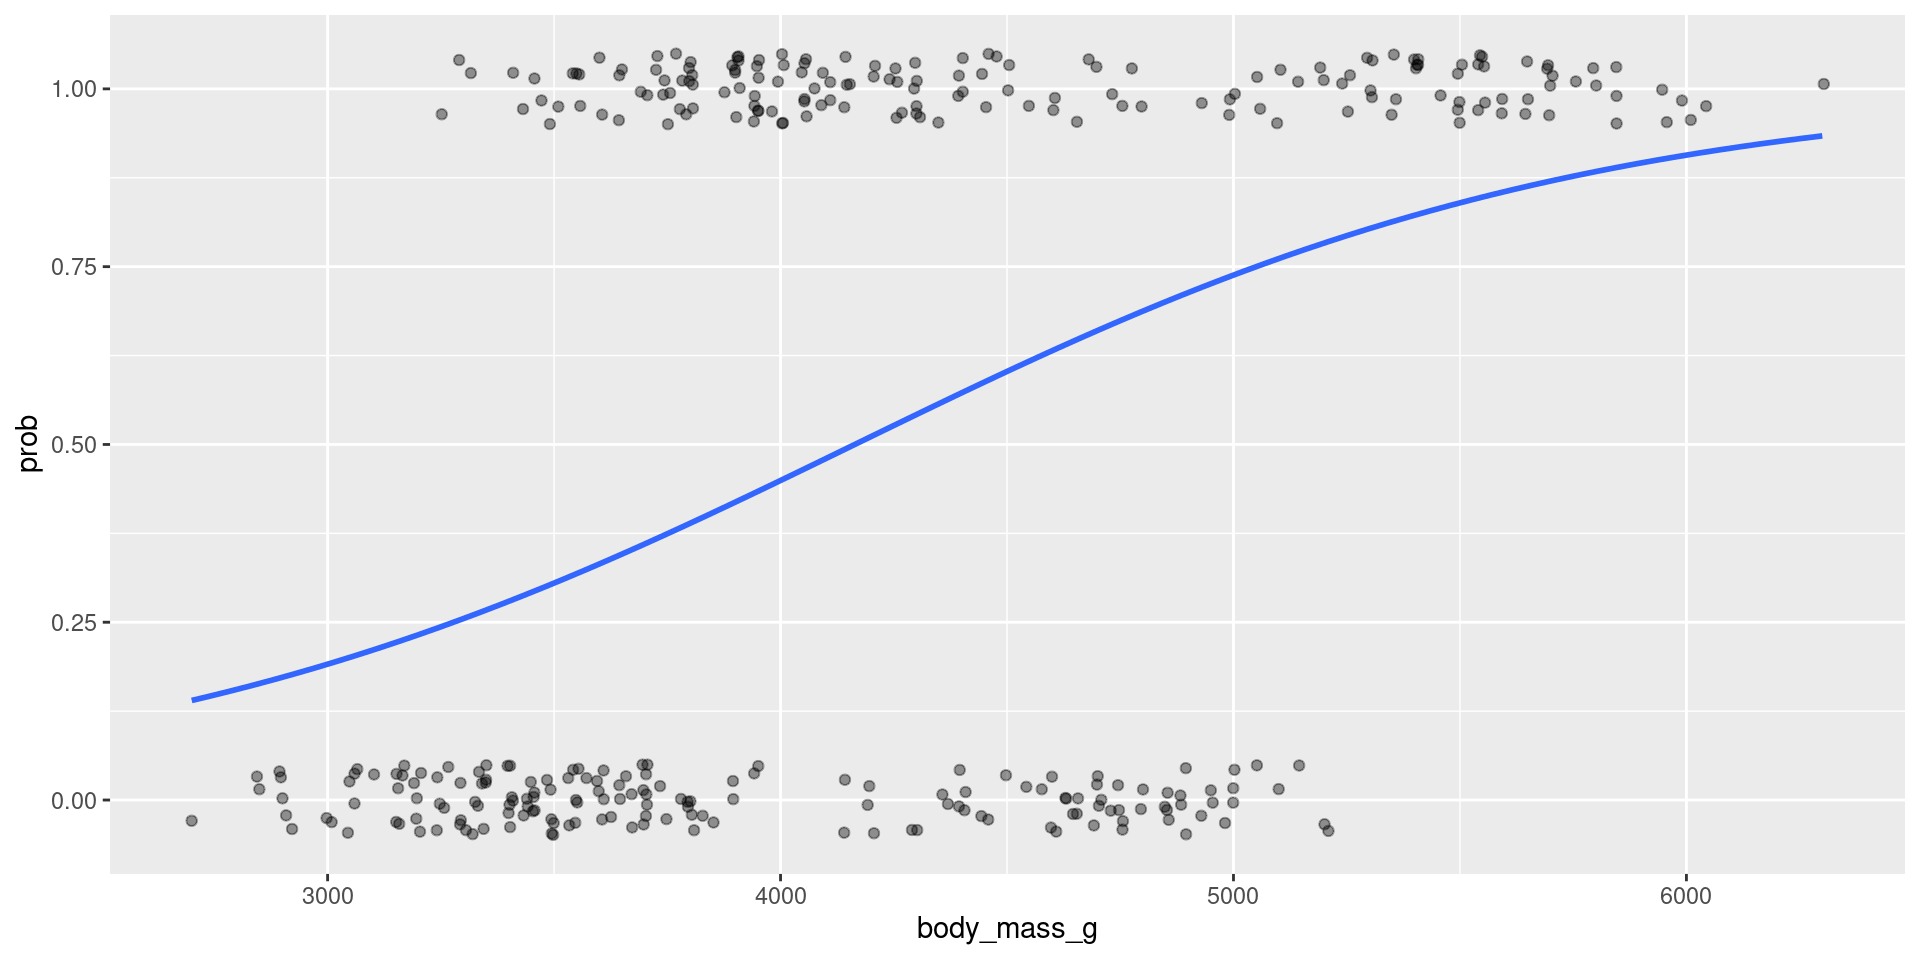
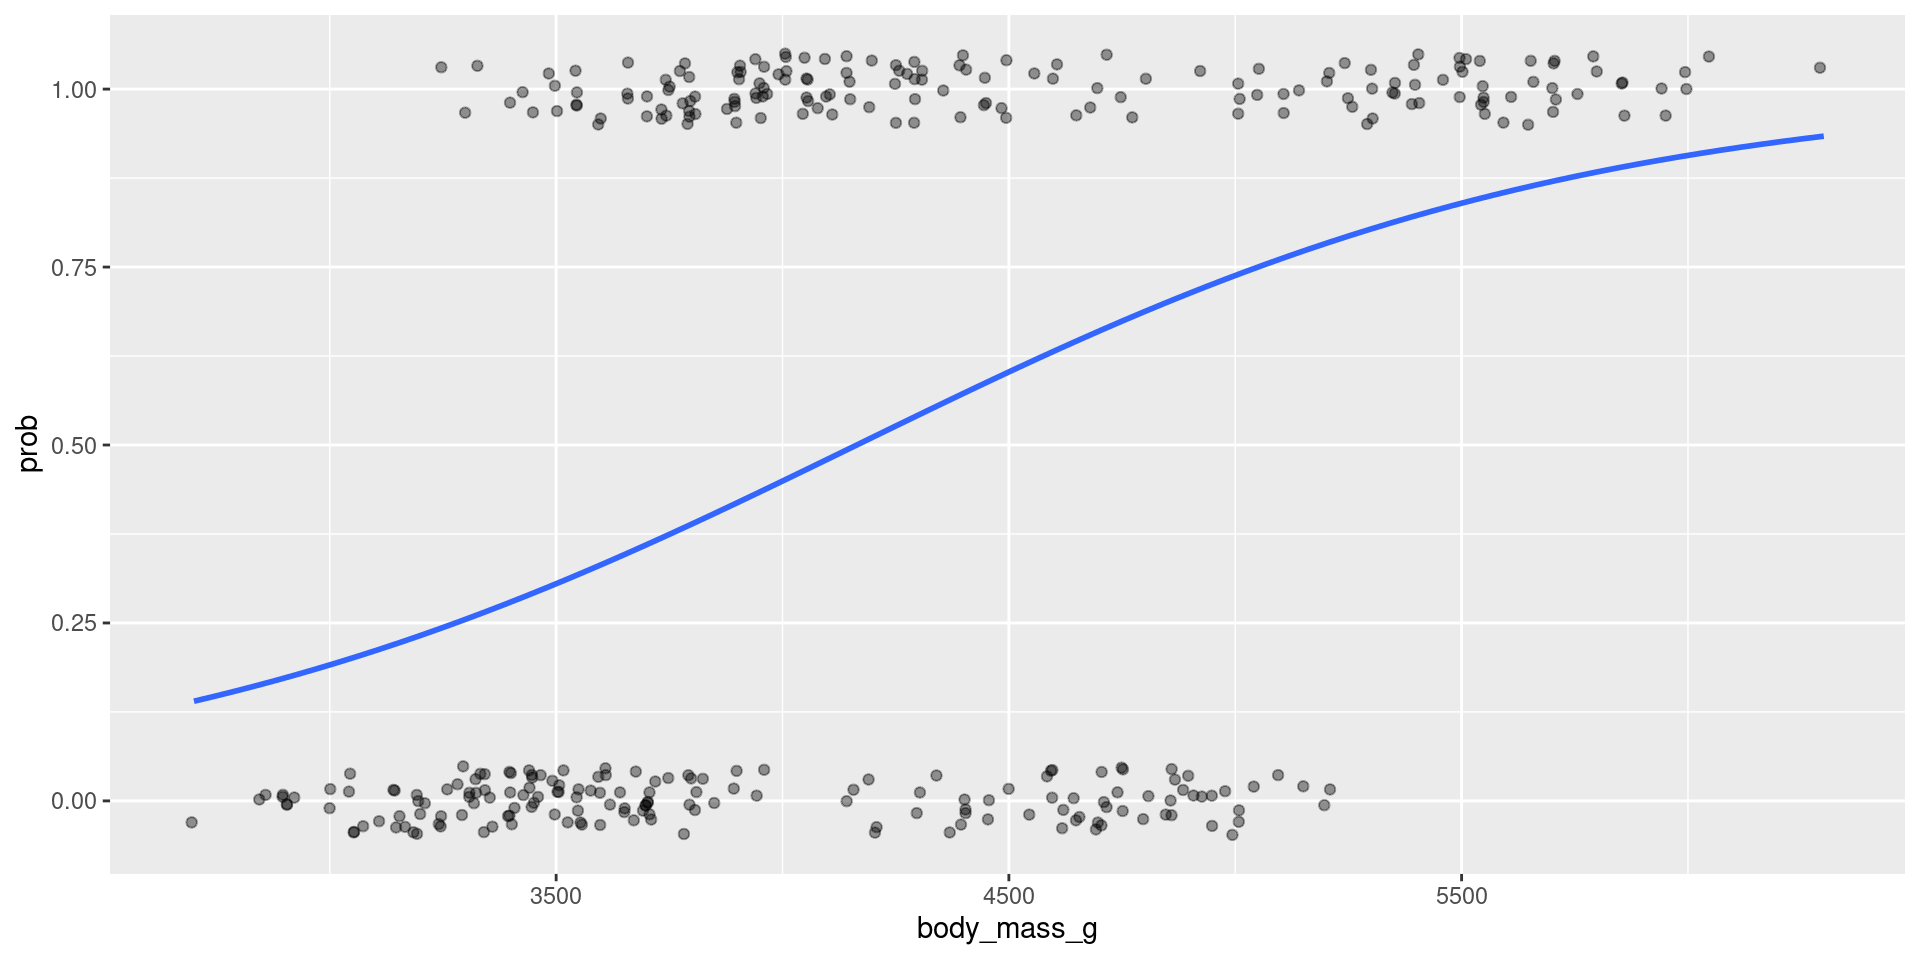
local

diff --git a/content/slides_aulas/rm_da/11_nonlinear.html b/content/slides_aulas/rm_da/11_nonlinear.html
@@ -684,23 +684,23 @@ Number of Fisher Scoring iterations: 4</code></pre>
 <div class="cell">
 <div class="cell-output-display">
 
-<div id="ylerhxrvvp" style="padding-left:0px;padding-right:0px;padding-top:10px;padding-bottom:10px;overflow-x:auto;overflow-y:auto;width:auto;height:auto;">
-<style>#ylerhxrvvp table {
+<div id="ardmvqovco" style="padding-left:0px;padding-right:0px;padding-top:10px;padding-bottom:10px;overflow-x:auto;overflow-y:auto;width:auto;height:auto;">
+<style>#ardmvqovco table {
   font-family: system-ui, 'Segoe UI', Roboto, Helvetica, Arial, sans-serif, 'Apple Color Emoji', 'Segoe UI Emoji', 'Segoe UI Symbol', 'Noto Color Emoji';
   -webkit-font-smoothing: antialiased;
   -moz-osx-font-smoothing: grayscale;
 }
 
-#ylerhxrvvp thead, #ylerhxrvvp tbody, #ylerhxrvvp tfoot, #ylerhxrvvp tr, #ylerhxrvvp td, #ylerhxrvvp th {
+#ardmvqovco thead, #ardmvqovco tbody, #ardmvqovco tfoot, #ardmvqovco tr, #ardmvqovco td, #ardmvqovco th {
   border-style: none;
 }
 
-#ylerhxrvvp p {
+#ardmvqovco p {
   margin: 0;
   padding: 0;
 }
 
-#ylerhxrvvp .gt_table {
+#ardmvqovco .gt_table {
   display: table;
   border-collapse: collapse;
   line-height: normal;
@@ -726,12 +726,12 @@ Number of Fisher Scoring iterations: 4</code></pre>
   border-left-color: #D3D3D3;
 }
 
-#ylerhxrvvp .gt_caption {
+#ardmvqovco .gt_caption {
   padding-top: 4px;
   padding-bottom: 4px;
 }
 
-#ylerhxrvvp .gt_title {
+#ardmvqovco .gt_title {
   color: #333333;
   font-size: 125%;
   font-weight: initial;
@@ -743,7 +743,7 @@ Number of Fisher Scoring iterations: 4</code></pre>
   border-bottom-width: 0;
 }
 
-#ylerhxrvvp .gt_subtitle {
+#ardmvqovco .gt_subtitle {
   color: #333333;
   font-size: 85%;
   font-weight: initial;
@@ -755,7 +755,7 @@ Number of Fisher Scoring iterations: 4</code></pre>
   border-top-width: 0;
 }
 
-#ylerhxrvvp .gt_heading {
+#ardmvqovco .gt_heading {
   background-color: #FFFFFF;
   text-align: center;
   border-bottom-color: #FFFFFF;
@@ -767,13 +767,13 @@ Number of Fisher Scoring iterations: 4</code></pre>
   border-right-color: #D3D3D3;
 }
 
-#ylerhxrvvp .gt_bottom_border {
+#ardmvqovco .gt_bottom_border {
   border-bottom-style: solid;
   border-bottom-width: 2px;
   border-bottom-color: #D3D3D3;
 }
 
-#ylerhxrvvp .gt_col_headings {
+#ardmvqovco .gt_col_headings {
   border-top-style: solid;
   border-top-width: 2px;
   border-top-color: #D3D3D3;
@@ -788,7 +788,7 @@ Number of Fisher Scoring iterations: 4</code></pre>
   border-right-color: #D3D3D3;
 }
 
-#ylerhxrvvp .gt_col_heading {
+#ardmvqovco .gt_col_heading {
   color: #333333;
   background-color: #FFFFFF;
   font-size: 100%;
@@ -808,7 +808,7 @@ Number of Fisher Scoring iterations: 4</code></pre>
   overflow-x: hidden;
 }
 
-#ylerhxrvvp .gt_column_spanner_outer {
+#ardmvqovco .gt_column_spanner_outer {
   color: #333333;
   background-color: #FFFFFF;
   font-size: 100%;
@@ -820,15 +820,15 @@ Number of Fisher Scoring iterations: 4</code></pre>
   padding-right: 4px;
 }
 
-#ylerhxrvvp .gt_column_spanner_outer:first-child {
+#ardmvqovco .gt_column_spanner_outer:first-child {
   padding-left: 0;
 }
 
-#ylerhxrvvp .gt_column_spanner_outer:last-child {
+#ardmvqovco .gt_column_spanner_outer:last-child {
   padding-right: 0;
 }
 
-#ylerhxrvvp .gt_column_spanner {
+#ardmvqovco .gt_column_spanner {
   border-bottom-style: solid;
   border-bottom-width: 2px;
   border-bottom-color: #D3D3D3;
@@ -840,11 +840,11 @@ Number of Fisher Scoring iterations: 4</code></pre>
   width: 100%;
 }
 
-#ylerhxrvvp .gt_spanner_row {
+#ardmvqovco .gt_spanner_row {
   border-bottom-style: hidden;
 }
 
-#ylerhxrvvp .gt_group_heading {
+#ardmvqovco .gt_group_heading {
   padding-top: 8px;
   padding-bottom: 8px;
   padding-left: 5px;
@@ -870,7 +870,7 @@ Number of Fisher Scoring iterations: 4</code></pre>
   text-align: left;
 }
 
-#ylerhxrvvp .gt_empty_group_heading {
+#ardmvqovco .gt_empty_group_heading {
   padding: 0.5px;
   color: #333333;
   background-color: #FFFFFF;
@@ -885,15 +885,15 @@ Number of Fisher Scoring iterations: 4</code></pre>
   vertical-align: middle;
 }
 
-#ylerhxrvvp .gt_from_md > :first-child {
+#ardmvqovco .gt_from_md > :first-child {
   margin-top: 0;
 }
 
-#ylerhxrvvp .gt_from_md > :last-child {
+#ardmvqovco .gt_from_md > :last-child {
   margin-bottom: 0;
 }
 
-#ylerhxrvvp .gt_row {
+#ardmvqovco .gt_row {
   padding-top: 8px;
   padding-bottom: 8px;
   padding-left: 5px;
@@ -912,7 +912,7 @@ Number of Fisher Scoring iterations: 4</code></pre>
   overflow-x: hidden;
 }
 
-#ylerhxrvvp .gt_stub {
+#ardmvqovco .gt_stub {
   color: #333333;
   background-color: #FFFFFF;
   font-size: 100%;
@@ -925,7 +925,7 @@ Number of Fisher Scoring iterations: 4</code></pre>
   padding-right: 5px;
 }
 
-#ylerhxrvvp .gt_stub_row_group {
+#ardmvqovco .gt_stub_row_group {
   color: #333333;
   background-color: #FFFFFF;
   font-size: 100%;
@@ -939,15 +939,15 @@ Number of Fisher Scoring iterations: 4</code></pre>
   vertical-align: top;
 }
 
-#ylerhxrvvp .gt_row_group_first td {
+#ardmvqovco .gt_row_group_first td {
   border-top-width: 2px;
 }
 
-#ylerhxrvvp .gt_row_group_first th {
+#ardmvqovco .gt_row_group_first th {
   border-top-width: 2px;
 }
 
-#ylerhxrvvp .gt_summary_row {
+#ardmvqovco .gt_summary_row {
   color: #333333;
   background-color: #FFFFFF;
   text-transform: inherit;
@@ -957,16 +957,16 @@ Number of Fisher Scoring iterations: 4</code></pre>
   padding-right: 5px;
 }
 
-#ylerhxrvvp .gt_first_summary_row {
+#ardmvqovco .gt_first_summary_row {
   border-top-style: solid;
   border-top-color: #D3D3D3;
 }
 
-#ylerhxrvvp .gt_first_summary_row.thick {
+#ardmvqovco .gt_first_summary_row.thick {
   border-top-width: 2px;
 }
 
-#ylerhxrvvp .gt_last_summary_row {
+#ardmvqovco .gt_last_summary_row {
   padding-top: 8px;
   padding-bottom: 8px;
   padding-left: 5px;
@@ -976,7 +976,7 @@ Number of Fisher Scoring iterations: 4</code></pre>
   border-bottom-color: #D3D3D3;
 }
 
-#ylerhxrvvp .gt_grand_summary_row {
+#ardmvqovco .gt_grand_summary_row {
   color: #333333;
   background-color: #FFFFFF;
   text-transform: inherit;
@@ -986,7 +986,7 @@ Number of Fisher Scoring iterations: 4</code></pre>
   padding-right: 5px;
 }
 
-#ylerhxrvvp .gt_first_grand_summary_row {
+#ardmvqovco .gt_first_grand_summary_row {
   padding-top: 8px;
   padding-bottom: 8px;
   padding-left: 5px;
@@ -996,7 +996,7 @@ Number of Fisher Scoring iterations: 4</code></pre>
   border-top-color: #D3D3D3;
 }
 
-#ylerhxrvvp .gt_last_grand_summary_row_top {
+#ardmvqovco .gt_last_grand_summary_row_top {
   padding-top: 8px;
   padding-bottom: 8px;
   padding-left: 5px;
@@ -1006,11 +1006,11 @@ Number of Fisher Scoring iterations: 4</code></pre>
   border-bottom-color: #D3D3D3;
 }
 
-#ylerhxrvvp .gt_striped {
+#ardmvqovco .gt_striped {
   background-color: rgba(128, 128, 128, 0.05);
 }
 
-#ylerhxrvvp .gt_table_body {
+#ardmvqovco .gt_table_body {
   border-top-style: solid;
   border-top-width: 2px;
   border-top-color: #D3D3D3;
@@ -1019,7 +1019,7 @@ Number of Fisher Scoring iterations: 4</code></pre>
   border-bottom-color: #D3D3D3;
 }
 
-#ylerhxrvvp .gt_footnotes {
+#ardmvqovco .gt_footnotes {
   color: #333333;
   background-color: #FFFFFF;
   border-bottom-style: none;
@@ -1033,7 +1033,7 @@ Number of Fisher Scoring iterations: 4</code></pre>
   border-right-color: #D3D3D3;
 }
 
-#ylerhxrvvp .gt_footnote {
+#ardmvqovco .gt_footnote {
   margin: 0px;
   font-size: 90%;
   padding-top: 4px;
@@ -1042,7 +1042,7 @@ Number of Fisher Scoring iterations: 4</code></pre>
   padding-right: 5px;
 }
 
-#ylerhxrvvp .gt_sourcenotes {
+#ardmvqovco .gt_sourcenotes {
   color: #333333;
   background-color: #FFFFFF;
   border-bottom-style: none;
@@ -1056,7 +1056,7 @@ Number of Fisher Scoring iterations: 4</code></pre>
   border-right-color: #D3D3D3;
 }
 
-#ylerhxrvvp .gt_sourcenote {
+#ardmvqovco .gt_sourcenote {
   font-size: 90%;
   padding-top: 4px;
   padding-bottom: 4px;
@@ -1064,72 +1064,72 @@ Number of Fisher Scoring iterations: 4</code></pre>
   padding-right: 5px;
 }
 
-#ylerhxrvvp .gt_left {
+#ardmvqovco .gt_left {
   text-align: left;
 }
 
-#ylerhxrvvp .gt_center {
+#ardmvqovco .gt_center {
   text-align: center;
 }
 
-#ylerhxrvvp .gt_right {
+#ardmvqovco .gt_right {
   text-align: right;
   font-variant-numeric: tabular-nums;
 }
 
-#ylerhxrvvp .gt_font_normal {
+#ardmvqovco .gt_font_normal {
   font-weight: normal;
 }
 
-#ylerhxrvvp .gt_font_bold {
+#ardmvqovco .gt_font_bold {
   font-weight: bold;
 }
 
-#ylerhxrvvp .gt_font_italic {
+#ardmvqovco .gt_font_italic {
   font-style: italic;
 }
 
-#ylerhxrvvp .gt_super {
+#ardmvqovco .gt_super {
   font-size: 65%;
 }
 
-#ylerhxrvvp .gt_footnote_marks {
+#ardmvqovco .gt_footnote_marks {
   font-size: 75%;
   vertical-align: 0.4em;
   position: initial;
 }
 
-#ylerhxrvvp .gt_asterisk {
+#ardmvqovco .gt_asterisk {
   font-size: 100%;
   vertical-align: 0;
 }
 
-#ylerhxrvvp .gt_indent_1 {
+#ardmvqovco .gt_indent_1 {
   text-indent: 5px;
 }
 
-#ylerhxrvvp .gt_indent_2 {
+#ardmvqovco .gt_indent_2 {
   text-indent: 10px;
 }
 
-#ylerhxrvvp .gt_indent_3 {
+#ardmvqovco .gt_indent_3 {
   text-indent: 15px;
 }
 
-#ylerhxrvvp .gt_indent_4 {
+#ardmvqovco .gt_indent_4 {
   text-indent: 20px;
 }
 
-#ylerhxrvvp .gt_indent_5 {
+#ardmvqovco .gt_indent_5 {
   text-indent: 25px;
 }
 
-#ylerhxrvvp .katex-display {
+#ardmvqovco .katex-display {
   display: inline-flex !important;
   margin-bottom: 0.75em !important;
 }
 
-#ylerhxrvvp div.Reactable > div.rt-table > div.rt-thead > div.rt-tr.rt-tr-group-header > div.rt-th-group:after {
+#ardmvqovco div.Reactable > div.rt-table > div.rt-thead > div.rt-tr.rt-tr-group-header > div.rt-th-group:after {
   height: 0px !important;
 }
 </style>
@@ -1185,9 +1185,10 @@ Number of Fisher Scoring iterations: 4</code></pre>
 </div>
 </div>
 </section>
-<section id="section" class="slide level2">
-<h2></h2>
-</section>
+<section id="visulaising" class="slide level2">
+<h2>Visulaising</h2>
+
+<img data-src="11_nonlinear_files/figure-revealjs/unnamed-chunk-15-1.png" width="960" class="r-stretch"></section>
 <section id="end-of-class-da" class="slide level2">
 <h2>End of Class DA</h2>
 
